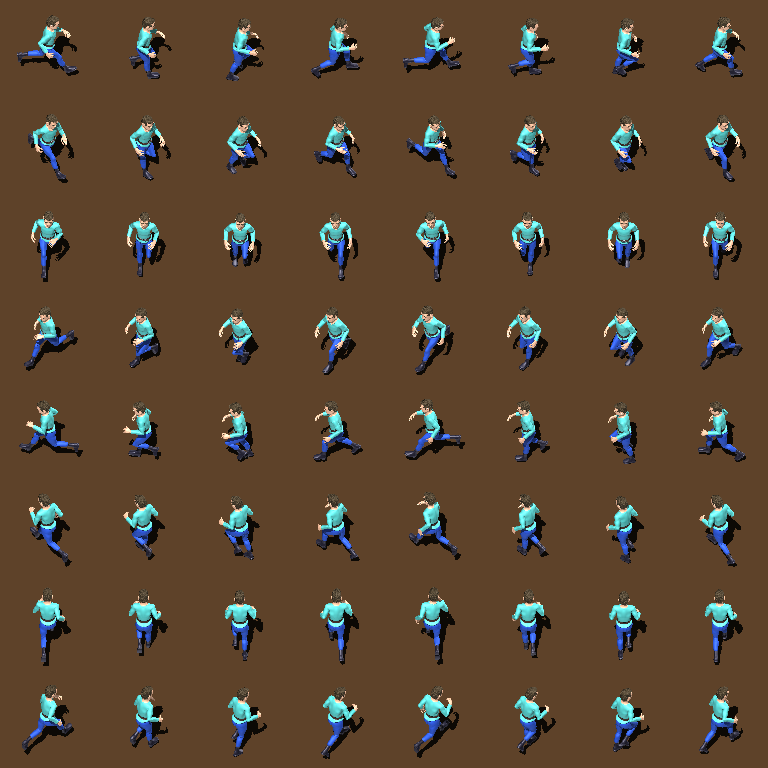
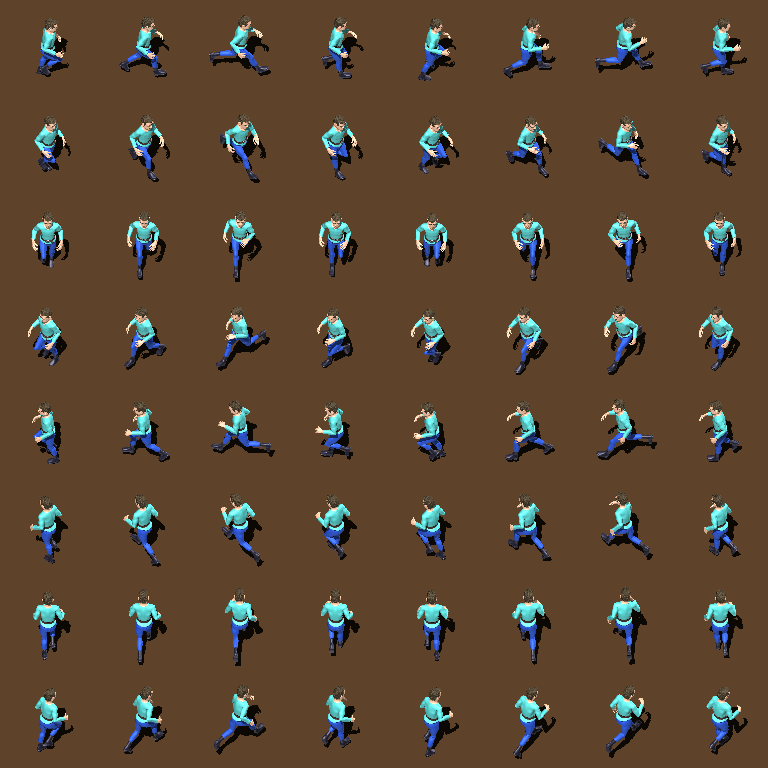
Project 0 2D v0.04:
->Add keyframe management for animations: a keyframe is a value where a certain event occur in the animation or where the animation can be stopped without breaking the graphic logic.
-> update some xml to real png name

->update P0 to concord with sdlut modifs

diff --git a/P0/src/Player.cpp b/P0/src/Player.cpp
@@ -5,12 +5,6 @@ Player::Player()
 {
 try {
 /****initial initialization to be able to free everything at any time****/
-	attack_unarmed_msg_hit = NULL;
-	attack_unarmed_msg_miss = NULL;
-	attack_melee_msg_hit = NULL;
-	attack_distant_msg_hit = NULL;
-	attack_melee_msg_miss = NULL;
-	attack_distant_msg_miss = NULL;
 
 /****characteristics parsing (xml parsing)****/
 	Parse_Description_File("Data/Characters/Player.xml"); //attack_style ????!!!!!!!!!!!
@@ -146,13 +140,6 @@ Player::~Player()
 //Everything needed to fully clean the player in case of exception or at destruction
 void Player::Clean_Player()
 {
-	delete attack_unarmed_msg_hit, attack_unarmed_msg_hit = NULL;
-	delete attack_unarmed_msg_miss, attack_unarmed_msg_miss = NULL;
-	delete attack_melee_msg_hit, attack_melee_msg_hit = NULL;
-	delete attack_distant_msg_hit, attack_distant_msg_hit = NULL;
-	delete attack_melee_msg_miss, attack_melee_msg_miss = NULL;
-	delete attack_distant_msg_miss, attack_distant_msg_miss = NULL;
-
 	delete Attack_Animation, Attack_Animation = NULL;
 	delete Death_Animation, Death_Animation = NULL;
 	delete Walk_Animation, Walk_Animation = NULL;
@@ -173,7 +160,7 @@ try
 		//If a monster has been hit displayed the hit msg, if no display miss msg
 		if (attack_successfull != 0)
 		{
-			Messages::Status_Msg = attack_unarmed_msg_hit;
+			Messages::Status_Msg = attack_unarmed_msg_hit.get();
 
 			if (attack_successfull == 1)
 				P0_Logger << nl << ">>> Skeleton Hit <<< " << std::endl;
@@ -182,7 +169,7 @@ try
 		}
 		else
 		{
-			Messages::Status_Msg = attack_unarmed_msg_miss;
+			Messages::Status_Msg = attack_unarmed_msg_miss.get();
 			P0_Logger << nl << ">>> Monster Miss <<< " << std::endl;
 		}
 	}
@@ -192,7 +179,7 @@ try
 		//If a monster has been hit displayed the hit msg, if no display miss msg
 		if (attack_successfull != 0)
 		{
-			Messages::Status_Msg = attack_melee_msg_hit;
+			Messages::Status_Msg = attack_melee_msg_hit.get();
 
 			if (attack_successfull == 1)
 				P0_Logger << nl << ">>> Skeleton Hit <<< " << std::endl;
@@ -201,7 +188,7 @@ try
 		}
 		else
 		{
-			Messages::Status_Msg = attack_melee_msg_miss;
+			Messages::Status_Msg = attack_melee_msg_miss.get();
 			P0_Logger << nl << ">>> Monster Miss <<< " << std::endl;
 		}
 	}
@@ -211,7 +198,7 @@ try
 		//If a monster has been hit displayed the hit msg, if no display miss msg
 		if (attack_successfull != 0)
 		{
-			Messages::Status_Msg = attack_distant_msg_hit;
+			Messages::Status_Msg = attack_distant_msg_hit.get();
 
 			if (attack_successfull == 1)
 				P0_Logger << nl << ">>> Skeleton Hit <<< " << std::endl;
@@ -220,7 +207,7 @@ try
 		}
 		else
 		{
-			Messages::Status_Msg = attack_distant_msg_miss;
+			Messages::Status_Msg = attack_distant_msg_miss.get();
 			P0_Logger << nl << ">>> Monster Miss <<< " << std::endl;
 		}
 	}

diff --git a/P0/src/Animations.cpp b/P0/src/Animations.cpp
@@ -13,24 +13,26 @@ try {
 	Animation_Tile_Rect = NULL;
 
 	//
-	//TODO Managed the 0 or 1 value for options !!!!
+	//TODO Managed the 0 or 1 value for options !!!!: initialize & Check Node Exists
 	//
 
-	string Attack_Animation_Filename = Data_Root_Directory + XML_Manager::Get_Option_String(Description_File, Animation_Name);
-	XML_Manager::Validate_File(Attack_Animation_Filename);
+	string Animation_Filename = Data_Root_Directory + XML_Manager::Get_Option_String(Description_File, Animation_Name);
+	XML_Manager::Validate_File(Animation_Filename);
 
-	string Attack_Animation_TS_Filename = XML_Manager::Get_Option_String(Attack_Animation_Filename, "Animation_TS_Filename");
-	int ColorKey_R = XML_Manager::Get_Option_Value(Attack_Animation_Filename, "ColorKey_R");
-	int ColorKey_G = XML_Manager::Get_Option_Value(Attack_Animation_Filename, "ColorKey_G");
-	int ColorKey_B = XML_Manager::Get_Option_Value(Attack_Animation_Filename, "ColorKey_B");
-	Animation_Tileset = new RGBSurface(Data_Root_Directory+Attack_Animation_TS_Filename, Color((unsigned char)ColorKey_R, (unsigned char)ColorKey_G, (unsigned char)ColorKey_B) );
-	Animation_Frame_Number = XML_Manager::Get_Option_Value(Attack_Animation_Filename, "Frames");
+	string Animation_TS_Filename = XML_Manager::Get_Option_String(Animation_Filename, "Animation_TS_Filename");
+	int ColorKey_R = XML_Manager::Get_Option_Value(Animation_Filename, "ColorKey_R");
+	int ColorKey_G = XML_Manager::Get_Option_Value(Animation_Filename, "ColorKey_G");
+	int ColorKey_B = XML_Manager::Get_Option_Value(Animation_Filename, "ColorKey_B");
+	Animation_Tileset = new RGBSurface(Data_Root_Directory+Animation_TS_Filename, Color((unsigned char)ColorKey_R, (unsigned char)ColorKey_G, (unsigned char)ColorKey_B) );
+	Animation_Frame_Number = XML_Manager::Get_Option_Value(Animation_Filename, "Frames");
+	if ( XML_Manager::Check_Node_Exists(Animation_Filename, "KeyFrame") )
+		Animation_KeyFrame = XML_Manager::Get_Option_Value(Animation_Filename, "KeyFrame");
 	Animation_Frames_Interval = 1; //coz 0 make timer loop
 	if (Animation_Frame_Number > 1) //when there is a real animation, not a single frame
-		Animation_Frames_Interval = XML_Manager::Get_Option_Value_Long(Attack_Animation_Filename, "Frames_Interval");
+		Animation_Frames_Interval = XML_Manager::Get_Option_Value_Long(Animation_Filename, "Frames_Interval");
 
-	Animation_Sprite_Width = XML_Manager::Get_Option_Value(Attack_Animation_Filename, "Width");
-	Animation_Sprite_Height = XML_Manager::Get_Option_Value(Attack_Animation_Filename, "Height");
+	Animation_Sprite_Width = XML_Manager::Get_Option_Value(Animation_Filename, "Width");
+	Animation_Sprite_Height = XML_Manager::Get_Option_Value(Animation_Filename, "Height");
 
 	//Clip def
 	Animation_Tile_Rect = new std::vector<Rect>;

diff --git a/P0/src/Input_Management.cpp b/P0/src/Input_Management.cpp
@@ -199,12 +199,12 @@ bool KeyboardInput::handleKeyEvent (const Sym &s, bool pressed)
 				//CURRENT_SCREEN_WIDTH = SCREEN_WIDTH;
 				//CURRENT_SCREEN_HEIGHT = SCREEN_HEIGHT;
 				//resize display to the configured resolutions which is a supported FS res
-				if (! App::getInstance().getWindow()->resizeDisplay(SCREEN_WIDTH, SCREEN_HEIGHT) )
+				if (! App::getInstance().getWindow().resizeDisplay(SCREEN_WIDTH, SCREEN_HEIGHT) )
 				{
 					P0_Logger << nl << "Create Surface Failed : " << GetError() << std::endl;
 					return false;
 				}
-				App::getInstance().getWindow()->setFullscreen( ! App::getInstance().getWindow()->isFullscreen() );
+				App::getInstance().getWindow().setFullscreen( ! App::getInstance().getWindow().isFullscreen() );
 
 				//App::getInstance().getWindow()->setFullscreen(!App::getInstance().getWindow()->resizeDisplay(SCREEN_WIDTH,SCREEN_HEIGHT)->isFullScreenset());
 			}
@@ -239,7 +239,7 @@ bool KeyboardInput::handleKeyEvent (const Sym &s, bool pressed)
 				//Decrement esc menu's selected item id until it reach the top than go back to the bottom
 				case KUp:
 					//play menu Fx	
-					App::getInstance().getMixer()->playChannel(EscMenuButtonFx_Chan);
+					App::getInstance().getMixer().playChannel(EscMenuButtonFx_Chan);
 					//loop between Y/N 
 					if ( myEsc_Menu->Get_SelectedItemId() > 1 )
 					{
@@ -254,7 +254,7 @@ bool KeyboardInput::handleKeyEvent (const Sym &s, bool pressed)
 				//Increment esc menu's selected item id until it reach the bottom than go back to the top
 				case KDown:
 					//play menu Fx
-					App::getInstance().getMixer()->playChannel(EscMenuButtonFx_Chan);
+					App::getInstance().getMixer().playChannel(EscMenuButtonFx_Chan);
 					//loop between Y/N 
 					if ( myEsc_Menu->Get_SelectedItemId() < 2 )
 					{

diff --git a/P0/src/Sounds.cpp b/P0/src/Sounds.cpp
@@ -15,20 +15,20 @@ bool Set_Sounds_Channels()
 {
 try {
 	//Set the null sound to the channel 0 (the 1st one)
-	if (App::getInstance().getMixer()->mixSound(Sound("Data/SFXs/null.wav"), false, false) != 0)
+	if (App::getInstance().getMixer().mixSound(Sound("Data/SFXs/null.wav"), false, false) != 0)
 	{
 		return false; //Error: NULL Sound was not mix to the channel 0, impossible !?!
 	}
 
 	//Set Fxs Channels
-	EscMenuButtonFx_Chan = App::getInstance().getMixer()->mixSound(Sound("Data/SFXs/esc_menu_sound.wav"), false, false);
-	MissFx_Chan = App::getInstance().getMixer()->mixSound(Sound("Data/SFXs/Miss.wav"), false, false);
-	HitFx_Chan = App::getInstance().getMixer()->mixSound(Sound("Data/SFXs/Hit.wav"), false, false);
-	BowFx_Chan = App::getInstance().getMixer()->mixSound(Sound("Data/SFXs/Bow.wav"), false, false);
-	SwordFx_Chan = App::getInstance().getMixer()->mixSound(Sound("Data/SFXs/Sword.wav"), false, false);
+	EscMenuButtonFx_Chan = App::getInstance().getMixer().mixSound(Sound("Data/SFXs/esc_menu_sound.wav"), false, false);
+	MissFx_Chan = App::getInstance().getMixer().mixSound(Sound("Data/SFXs/Miss.wav"), false, false);
+	HitFx_Chan = App::getInstance().getMixer().mixSound(Sound("Data/SFXs/Hit.wav"), false, false);
+	BowFx_Chan = App::getInstance().getMixer().mixSound(Sound("Data/SFXs/Bow.wav"), false, false);
+	SwordFx_Chan = App::getInstance().getMixer().mixSound(Sound("Data/SFXs/Sword.wav"), false, false);
 
 	//Set Musics Channels
-	GlobalMusic_Chan = App::getInstance().getMixer()->mixSound(Sound("Data/Musics/Temple.wav"), true, false);
+	GlobalMusic_Chan = App::getInstance().getMixer().mixSound(Sound("Data/Musics/Temple.wav"), true, false);
 
 	return true; //no error
 

diff --git a/P0/src/Menus.cpp b/P0/src/Menus.cpp
@@ -83,9 +83,9 @@ try {
 	Screen.blit( *Victory_Tile, Point::Point(CURRENT_SCREEN_WIDTH/2 - 100, CURRENT_SCREEN_HEIGHT/2 - 50) );
 	
 	//Show Time
-	RGBSurface *time_stat_msg = Time_Font->render(Time_Style(FiNiSH_TiME), Color(0, 0, 0), Font::Shaded, Color(0xFF, 0xFF, 0xFF));
+	std::auto_ptr<RGBSurface> time_stat_msg = Time_Font->render(Time_Style(FiNiSH_TiME), Color(0, 0, 0), Font::Shaded, Color(0xFF, 0xFF, 0xFF));
 	Screen.blit(*time_stat_msg, Point::Point(CURRENT_SCREEN_WIDTH/2 - 10 , CURRENT_SCREEN_HEIGHT/2 + 7 ) );
-	delete time_stat_msg, time_stat_msg = NULL;
+	//delete time_stat_msg, time_stat_msg = NULL; //not needed coz auto_ptr
 
 	return true;
 } catch (...) {
@@ -118,9 +118,9 @@ bool Victory_Screen::Show_Monsters_Stats(VideoSurface& Screen)
 {
 try {
 	//Show Numbers
-	RGBSurface *monsters_stats_msg = Monsters_Stats_Font->render("Monsters ALiVED: " + Int_To_String(ALiVE_MONSTERS) + "; Monsters KiLLED: " + Int_To_String(KiLLED_MONSTERS) , Color(0xFF, 0xFF, 0xFF), Font::Shaded);
+	std::auto_ptr<RGBSurface> monsters_stats_msg = Monsters_Stats_Font->render("Monsters ALiVED: " + Int_To_String(ALiVE_MONSTERS) + "; Monsters KiLLED: " + Int_To_String(KiLLED_MONSTERS) , Color(0xFF, 0xFF, 0xFF), Font::Shaded);
 	Screen.blit( *monsters_stats_msg, Point::Point(CURRENT_SCREEN_WIDTH - 200, CURRENT_SCREEN_HEIGHT - 20) );
-	delete monsters_stats_msg, monsters_stats_msg = NULL;
+	//delete monsters_stats_msg, monsters_stats_msg = NULL;//not needed coz auto_ptr
 
 	return true;
 } catch (...) {

diff --git a/P0/src/Project0.cpp b/P0/src/Project0.cpp
@@ -43,7 +43,7 @@ bool InitEverything()
 	P0_Logger << nl << "TTF Init : OK " << std::endl;
 
 	//Create the video surface aka the display
-	if (! App::getInstance().getWindow()->resetDisplay(SCREEN_WIDTH, SCREEN_HEIGHT)  )
+	if (! App::getInstance().getWindow().resetDisplay(SCREEN_WIDTH, SCREEN_HEIGHT)  )
 	{
 		P0_Logger << nl << "Create Surface Failed : " << GetError() << std::endl;
         return false;
@@ -206,10 +206,10 @@ try {
 
 
 	//Affect the keyboard instance to the windows
-    App::getInstance().getWindow()->getEventManager().setKeyboard(myKeyboardInput);
+    App::getInstance().getWindow().getEventManager().setKeyboard(myKeyboardInput);
 
 	//Affect the game render engine to the windows
-	App::getInstance().getWindow()->setEngine(myRender_Engine);
+	App::getInstance().getWindow().setEngine(myRender_Engine);
 
 	return true; //no error
 
@@ -225,7 +225,7 @@ try {
 
 	/********Start music********/
 	if (ENABLE_MUSIC)
-		App::getInstance().getMixer()->playChannel(GlobalMusic_Chan);
+		App::getInstance().getMixer().playChannel(GlobalMusic_Chan);
 
 	/*******Score Management********/
 	FiNiSH_TiME = (unsigned)time( NULL );
@@ -238,7 +238,7 @@ try {
 
 
 	/********Launch the mainloop that will use the render method of the Engine and so will render the screen and will manage all events********/
-	App::getInstance().getWindow()->mainLoop(FRAMES_PER_SECOND);
+	App::getInstance().getWindow().mainLoop(FRAMES_PER_SECOND);
 
 	return true; //no error
 

diff --git a/P0/src/Daemons.cpp b/P0/src/Daemons.cpp
@@ -126,7 +126,7 @@ try {
 		if (myPlayer->Get_Attack_Successfull() != 0 )
 		{
 			//play hit Fx	
-			App::getInstance().getMixer()->playChannel(HitFx_Chan);
+			App::getInstance().getMixer().playChannel(HitFx_Chan);
 
 			//Remove dead Monsters
 			Monster_Factory_Skeleton->Remove_Dead_Monsters();
@@ -135,7 +135,7 @@ try {
 		else 
 		{
 			//play miss Fx	
-			App::getInstance().getMixer()->playChannel(MissFx_Chan);
+			App::getInstance().getMixer().playChannel(MissFx_Chan);
 		} 
 			//Set the good msg
 		if (! myPlayer->Set_Attack_Msg() )
@@ -181,7 +181,7 @@ try {
 	if (myPlayer->Get_Attack_Successfull() != 0 ) //&& ( myPlayer->Get_Attack_Style() == 2 ) )
 	{
 		//play hit Fx	
-		App::getInstance().getMixer()->playChannel(HitFx_Chan);
+		App::getInstance().getMixer().playChannel(HitFx_Chan);
 
 		//Remove Dead Monsters
 		Monster_Factory_Skeleton->Remove_Dead_Monsters();
@@ -193,7 +193,7 @@ try {
 			return interval;
 
 		//play miss Fx	
-		App::getInstance().getMixer()->playChannel(MissFx_Chan);
+		App::getInstance().getMixer().playChannel(MissFx_Chan);
 	} 
 	
 	//set attack msg, reset & end timer

diff --git a/P0/src/Character_Base.cpp b/P0/src/Character_Base.cpp
@@ -533,7 +533,7 @@ try
 	if (attack_style == 1) //melee
 	{
 		//play sword Fx	
-		App::getInstance().getMixer()->playChannel(SwordFx_Chan);
+		App::getInstance().getMixer().playChannel(SwordFx_Chan);
 
 		//Move the attack box at border of the character sprite in the good direction
 		if( attack_direction == CH_RIGHT )
@@ -601,7 +601,7 @@ try
 	else if (attack_style == 2) //distant
 	{
 		//play bow Fx	
-		App::getInstance().getMixer()->playChannel(BowFx_Chan);
+		App::getInstance().getMixer().playChannel(BowFx_Chan);
 
 		//Move the attack box at the middle of the character sprite in the good direction
 		if( attack_direction == CH_RIGHT )
